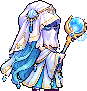
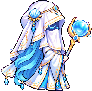
마리나 새 일러스트 (눈을 감은 모습, 속눈썹) 적용
Claude-Session: https://claude.ai/code/session_01Fxb29UthuHm5NupsxcALjM

diff --git a/index.html b/index.html
@@ -8,24 +8,24 @@
   <link rel="preconnect" href="https://fonts.googleapis.com">
   <link rel="preconnect" href="https://fonts.gstatic.com" crossorigin>
   <link href="https://fonts.googleapis.com/css2?family=Black+Han+Sans&family=Noto+Sans+KR:wght@400;700;900&display=swap" rel="stylesheet">
-  <link rel="stylesheet" href="style.css?v=202610210912">
-  <script>window.__ASSET_V = '202610210912';</script>
+  <link rel="stylesheet" href="style.css?v=202610210919">
+  <script>window.__ASSET_V = '202610210919';</script>
   <script type="importmap">
   {
     "imports": {
-      "./src/data.js": "./src/data.js?v=202610210912",
-      "./src/maps.js": "./src/maps.js?v=202610210912",
-      "./src/sim.js": "./src/sim.js?v=202610210912",
-      "./src/mapgen.js": "./src/mapgen.js?v=202610210912",
-      "./src/fx.js": "./src/fx.js?v=202610210912",
-      "./src/render.js": "./src/render.js?v=202610210912",
-      "./src/audio.js": "./src/audio.js?v=202610210912",
-      "./src/net.js": "./src/net.js?v=202610210912",
-      "./src/save.js": "./src/save.js?v=202610210912",
-      "./src/ui.js": "./src/ui.js?v=202610210912",
-      "./src/cloud.js": "./src/cloud.js?v=202610210912",
-      "./src/social.js": "./src/social.js?v=202610210912",
-      "./src/config.js": "./src/config.js?v=202610210912"
+      "./src/data.js": "./src/data.js?v=202610210919",
+      "./src/maps.js": "./src/maps.js?v=202610210919",
+      "./src/sim.js": "./src/sim.js?v=202610210919",
+      "./src/mapgen.js": "./src/mapgen.js?v=202610210919",
+      "./src/fx.js": "./src/fx.js?v=202610210919",
+      "./src/render.js": "./src/render.js?v=202610210919",
+      "./src/audio.js": "./src/audio.js?v=202610210919",
+      "./src/net.js": "./src/net.js?v=202610210919",
+      "./src/save.js": "./src/save.js?v=202610210919",
+      "./src/ui.js": "./src/ui.js?v=202610210919",
+      "./src/cloud.js": "./src/cloud.js?v=202610210919",
+      "./src/social.js": "./src/social.js?v=202610210919",
+      "./src/config.js": "./src/config.js?v=202610210919"
     }
   }
   </script>
@@ -45,6 +45,6 @@
     <div id="aug" hidden></div>
     <div id="menu" class="overlay"></div>
   </div>
-  <script type="module" src="./src/main.js?v=202610210912"></script>
+  <script type="module" src="./src/main.js?v=202610210919"></script>
 </body>
 </html>

diff --git a/tools/hero_art.py b/tools/hero_art.py
@@ -460,7 +460,7 @@ HEROES['priest'] = dict(
         '...............QQ...',
     ], pivot=(4, 2)),
     kind='staff', legs=('p', 'o', 'O'), arm='a', glove='a',
-    sprite=dict(file='tools/art/priest.png', cell=104, scale=0.78, weapon_from=(62, 8), pivot=(62, 55), legs=(84, 40), face=(32, 13, 32),
+    sprite=dict(file='tools/art/priest.png', cell=104, scale=0.78, weapon_from=(66, 12), pivot=(65, 54), legs=(84, 44), face=(36, 12, 32),
                 ang=dict(rest=0, windup=-12, strike=8, follow=4, hurt=10, win=-15), push=dict(windup=-1, strike=2, follow=1)),
 )
 
